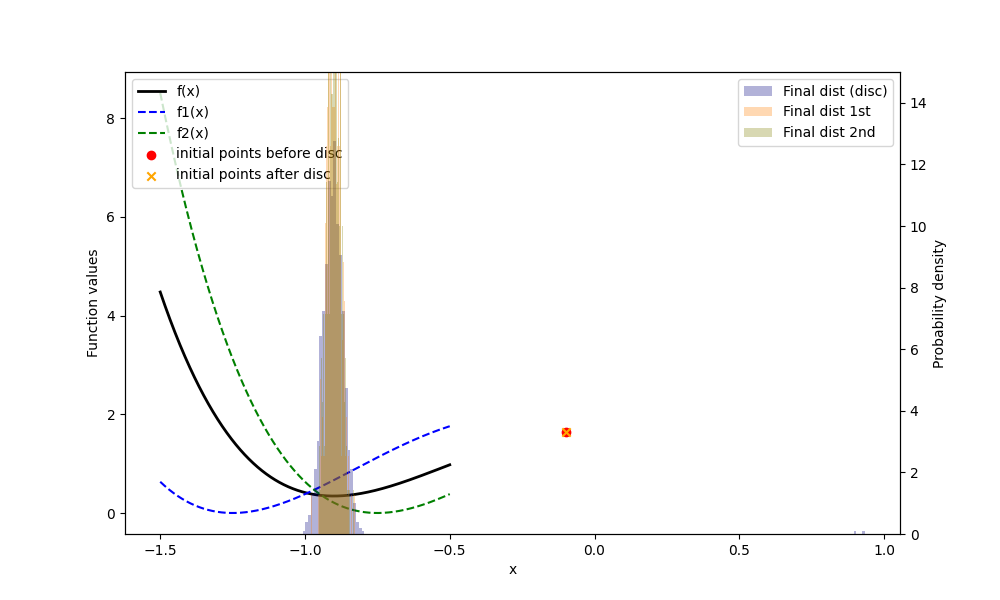
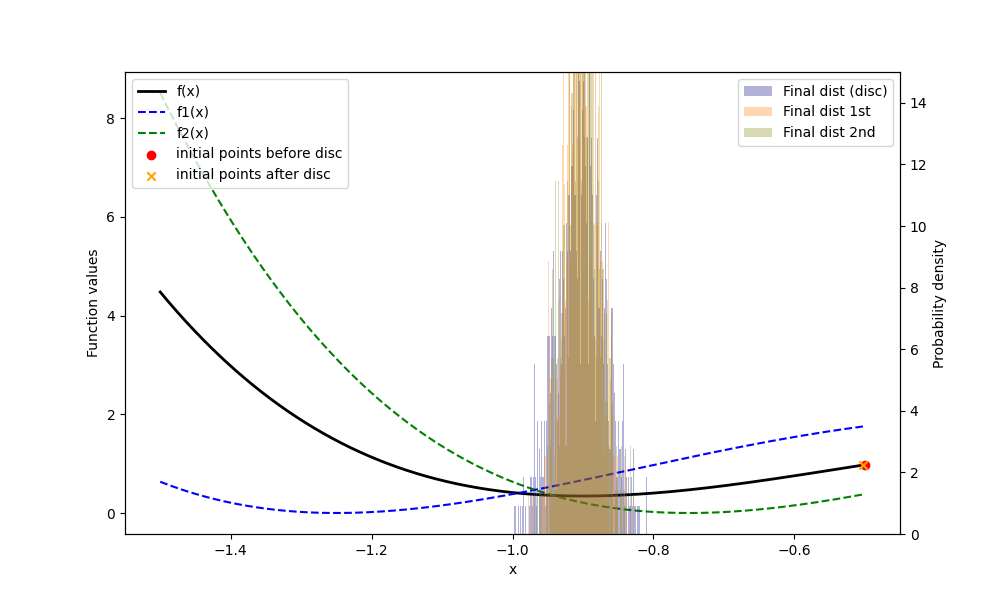
add +1 in num_steps for discrete simulation for t0 = 0

diff --git a/Thesis/Code_2025-11-22/Poly/main.py b/Thesis/Code_2025-11-22/Poly/main.py
@@ -36,19 +36,18 @@ def parse_arguments() -> argparse.Namespace:
 
     # Training parameters
     train_group = parser.add_argument_group('Training Configuration')
-    # 1.5, 1.15, 0.85, 0.5, 0.1, 0.0, -0.1,
-    train_group.add_argument('--initial_points', type=float, default=[1.5, 1.15, 0.85, 0.5, 0.3, 0.1, 0.0, -0.1, -0.3, -0.5], help='Initial points for optimization')
+    # 1.5, 1.15, 0.85, 0.5, 0.1, 0.0, -0.1, -0.3, -0.5
+    train_group.add_argument('--initial_points', type=float, default=[-0.1], help='Initial points for optimization')
     train_group.add_argument('--tau-list', type=float, nargs='+', default=[0.01], help='Learning rate values to test')
     train_group.add_argument('--c', type=float, default=0.5, help='RMSProp scaling constant of beta')
     train_group.add_argument('--c-1', type=float, default=1, help='C 1 parameter for Adam optimizer')
     train_group.add_argument('--c-2', type=float, default=0.5, help='C 2 parameter for Adam optimizer')
-    train_group.add_argument('--sigma-list', type=float, nargs='+', default=[0.2], help='Noise variance values to test')
-    train_group.add_argument('--num-runs', type=int, default=1024, help='Number of simulation runs for averaging')
-    train_group.add_argument('--final-time', type=float, default=15.0, help='Final time for SDE integration')
+    train_group.add_argument('--num-runs', type=int, default=128, help='Number of simulation runs for averaging')
+    train_group.add_argument('--final-time', type=float, default=5.0, help='Final time for SDE integration')
     train_group.add_argument('--epsilon', type=float, default=0.1, help='Regularization epsilon for RMSProp')
     train_group.add_argument('--skip-initial-point', type=int, default=2, help='Number of initial points to skip in analysis')
     train_group.add_argument('--device', type=str, default='cuda' if torch.cuda.is_available() else 'cpu', help='Device to run simulations on (cpu or cuda)')
-    train_group.add_argument('--batch-size', type=int, default=1024, help='Batch size for training')
+    train_group.add_argument('--batch-size', type=int, default=128, help='Batch size for training')
 
     # Regime selection
     regime_group = parser.add_argument_group('Regime Configuration')
@@ -124,7 +123,6 @@ def run_sde_simulations(
 
         res_cont = torchsde.sdeint(sde, initial_points.unsqueeze(0).expand(batch_size, -1).to(device), ts, method='euler', dt=dt).permute(1, 0, 2)
         runs[run] = res_cont
-
 
     # Aggregate results
     runs =  runs.reshape(-1, runs.shape[2], runs.shape[3])
@@ -349,10 +347,10 @@ def run_experiment_configuration(
     if args.optimizer == 'Adam':
         args.c = (args.c_1, args.c_2)
         beta = (1 - tau * args.c_1, 1 - tau * args.c_2)
-        print(f"\n==================== tau = {tau}, C1 = {args.c_1}, C2 = {args.c_2}, BETA = {beta} ====================\n")
+        print(f"\n==================== tau = {tau}, C1 = {args.c_1}, C2 = {args.c_2}, BETA = {beta}, initial points = {initial_points_before_disc.item()} ====================\n")
     elif args.optimizer == 'RMSProp':
         beta = 1 - tau * args.c
-        print(f"\n==================== tau = {tau}, C = {args.c}, BETA = {beta} ====================\n")
+        print(f"\n==================== tau = {tau}, C = {args.c}, BETA = {beta}, initial points = {initial_points_before_disc.item()} ====================\n")
 
     # Create result directory
     result_dir = f"{args.results_dir}_tau_{tau}_c_{args.c}_finaltime_{args.final_time}"
@@ -380,7 +378,7 @@ def run_experiment_configuration(
     noise = torch.randint(0, 2, (5000, initial_points_before_disc.shape[0]))
     
     # Setup time parameters
-    num_steps = int(torch.ceil(torch.tensor(args.final_time / tau)).item())
+    num_steps = int(torch.ceil(torch.tensor(args.final_time / tau)).item()) + 1 # +1 for t0 = 0
     print(f'Number of steps: {num_steps}')
         
     t0 = time.time()
@@ -422,7 +420,8 @@ def run_experiment_configuration(
         'skipped_initial_points': args.skip_initial_point,
         'initial_points_before_disc': initial_points_before_disc,
         'initial_points_after_disc': initial_points,
-        'simulation keys': ['disc']
+        'simulation keys': ['disc'],
+        'points_for_poly': points
     }
     if '1st_order_sde' in args.simulations:
         final_results['1_order_stoc'] = res_1_order_stoc
@@ -449,7 +448,7 @@ def run_experiment_configuration(
             save_code=True
         )
         for sim in final_results['simulation keys']:
-            artifact = wandb.Artifact(f"final_results_tau_{tau}", type="results")
+            artifact = wandb.Artifact(f"final_results", type="results")
             artifact.add_file(os.path.join(result_dir, f'results_regime{args.regime}_tau{tau}_c{args.c}.pt'))
             wandb.log_artifact(artifact)
             wandb.log({f"time_elapsed_for_{sim}": final_results[sim]['time_elapsed'], 'runs': effective_runs})
@@ -482,11 +481,11 @@ def run_experiment_configuration(
                     wandb.plot.histogram(table, "value", title=f"{final_results['regime']} {sim} Final Distribution")
             })
 
-        plot_poly_result(final_results, poly, tau, result_dir, args)
+        plot_poly_result(final_results, poly, result_dir, wandb_bool = args.wandb)
         if final_results['disc']['final_distribution'].mean() > 0:
-            plot_poly_result(final_results, poly, tau, result_dir, args, xlim = (0.5, 1.5))
+            plot_poly_result(final_results, poly, result_dir, wandb_bool = args.wandb, xlim = (0.5, 1.5))
         else:
-            plot_poly_result(final_results, poly, tau, result_dir, args, xlim = (-1.5, -0.5))
+            plot_poly_result(final_results, poly, result_dir, wandb_bool = args.wandb, xlim = (-1.5, -0.5))
 
         wandb.finish()
 
@@ -500,7 +499,7 @@ def main():
     
     print("Starting Neural Network Training with RMSProp SDE Approximations")
     print(f"Regime: {args.regime}")
-    print(f"Parameters: tau={args.tau_list}, c={args.c}, sigma={args.sigma_list}")
+    print(f"Parameters: tau={args.tau_list}, c={args.c}")
     print(f"Number of runs: {args.num_runs}")
     
     

diff --git a/Thesis/Code_2025-11-22/Poly/Plot_poly.py b/Thesis/Code_2025-11-22/Poly/Plot_poly.py
@@ -4,7 +4,7 @@ import os
 import torch
 import wandb
 
-def plot_poly_result(final_results, poly, tau, result_dir, args, xlim = None):
+def plot_poly_result(final_results, poly, result_dir, wandb_bool = True, xlim = None):
     initial_before = final_results['initial_points_before_disc'].cpu().numpy()
     initial_after = final_results['initial_points_after_disc'][0].cpu().numpy()
 
@@ -30,8 +30,8 @@ def plot_poly_result(final_results, poly, tau, result_dir, args, xlim = None):
     dist_1st = final_results['1_order_stoc']['final_distribution'].cpu().numpy().flatten() if '1_order_stoc' in final_results else None
     dist_2nd = final_results['2_order_stoc']['final_distribution'].cpu().numpy().flatten() if '2_order_stoc' in final_results else None
 
-    print(f'mean of distribution disc: {dist_disc.mean()},1st order: {dist_1st.mean() if dist_1st is not None else "N/A"}, 2nd order: {dist_2nd.mean() if dist_2nd is not None else "N/A"}')
-
+    print(f'mean/min/max of distribution disc: {dist_disc.mean(), dist_disc.min(), dist_disc.max()},1st order: {(dist_1st.mean(), dist_1st.min(), dist_1st.max()) if dist_1st is not None else "N/A"}, 2nd order: {(dist_2nd.mean(), dist_2nd.min(), dist_2nd.max()) if dist_2nd is not None else "N/A"}')
+    breakpoint()
     # --- Plot ---
     fig, ax1 = plt.subplots(figsize=(10,6))
 
@@ -63,9 +63,10 @@ def plot_poly_result(final_results, poly, tau, result_dir, args, xlim = None):
     ax2.set_ylabel('Probability density')
     ax2.legend(loc='upper right')
 
-    fig_path = os.path.join(result_dir, f'final_plot_tau_{tau}.png')
+    fig_path = os.path.join(result_dir, f'final_plot.png')
     print(f'Saving final plot to {fig_path}')
     fig.savefig(fig_path)
-    if args.wandb:
+    if wandb_bool:
         wandb.log({"final_plot": wandb.Image(fig_path)})
     plt.close(fig)
+
